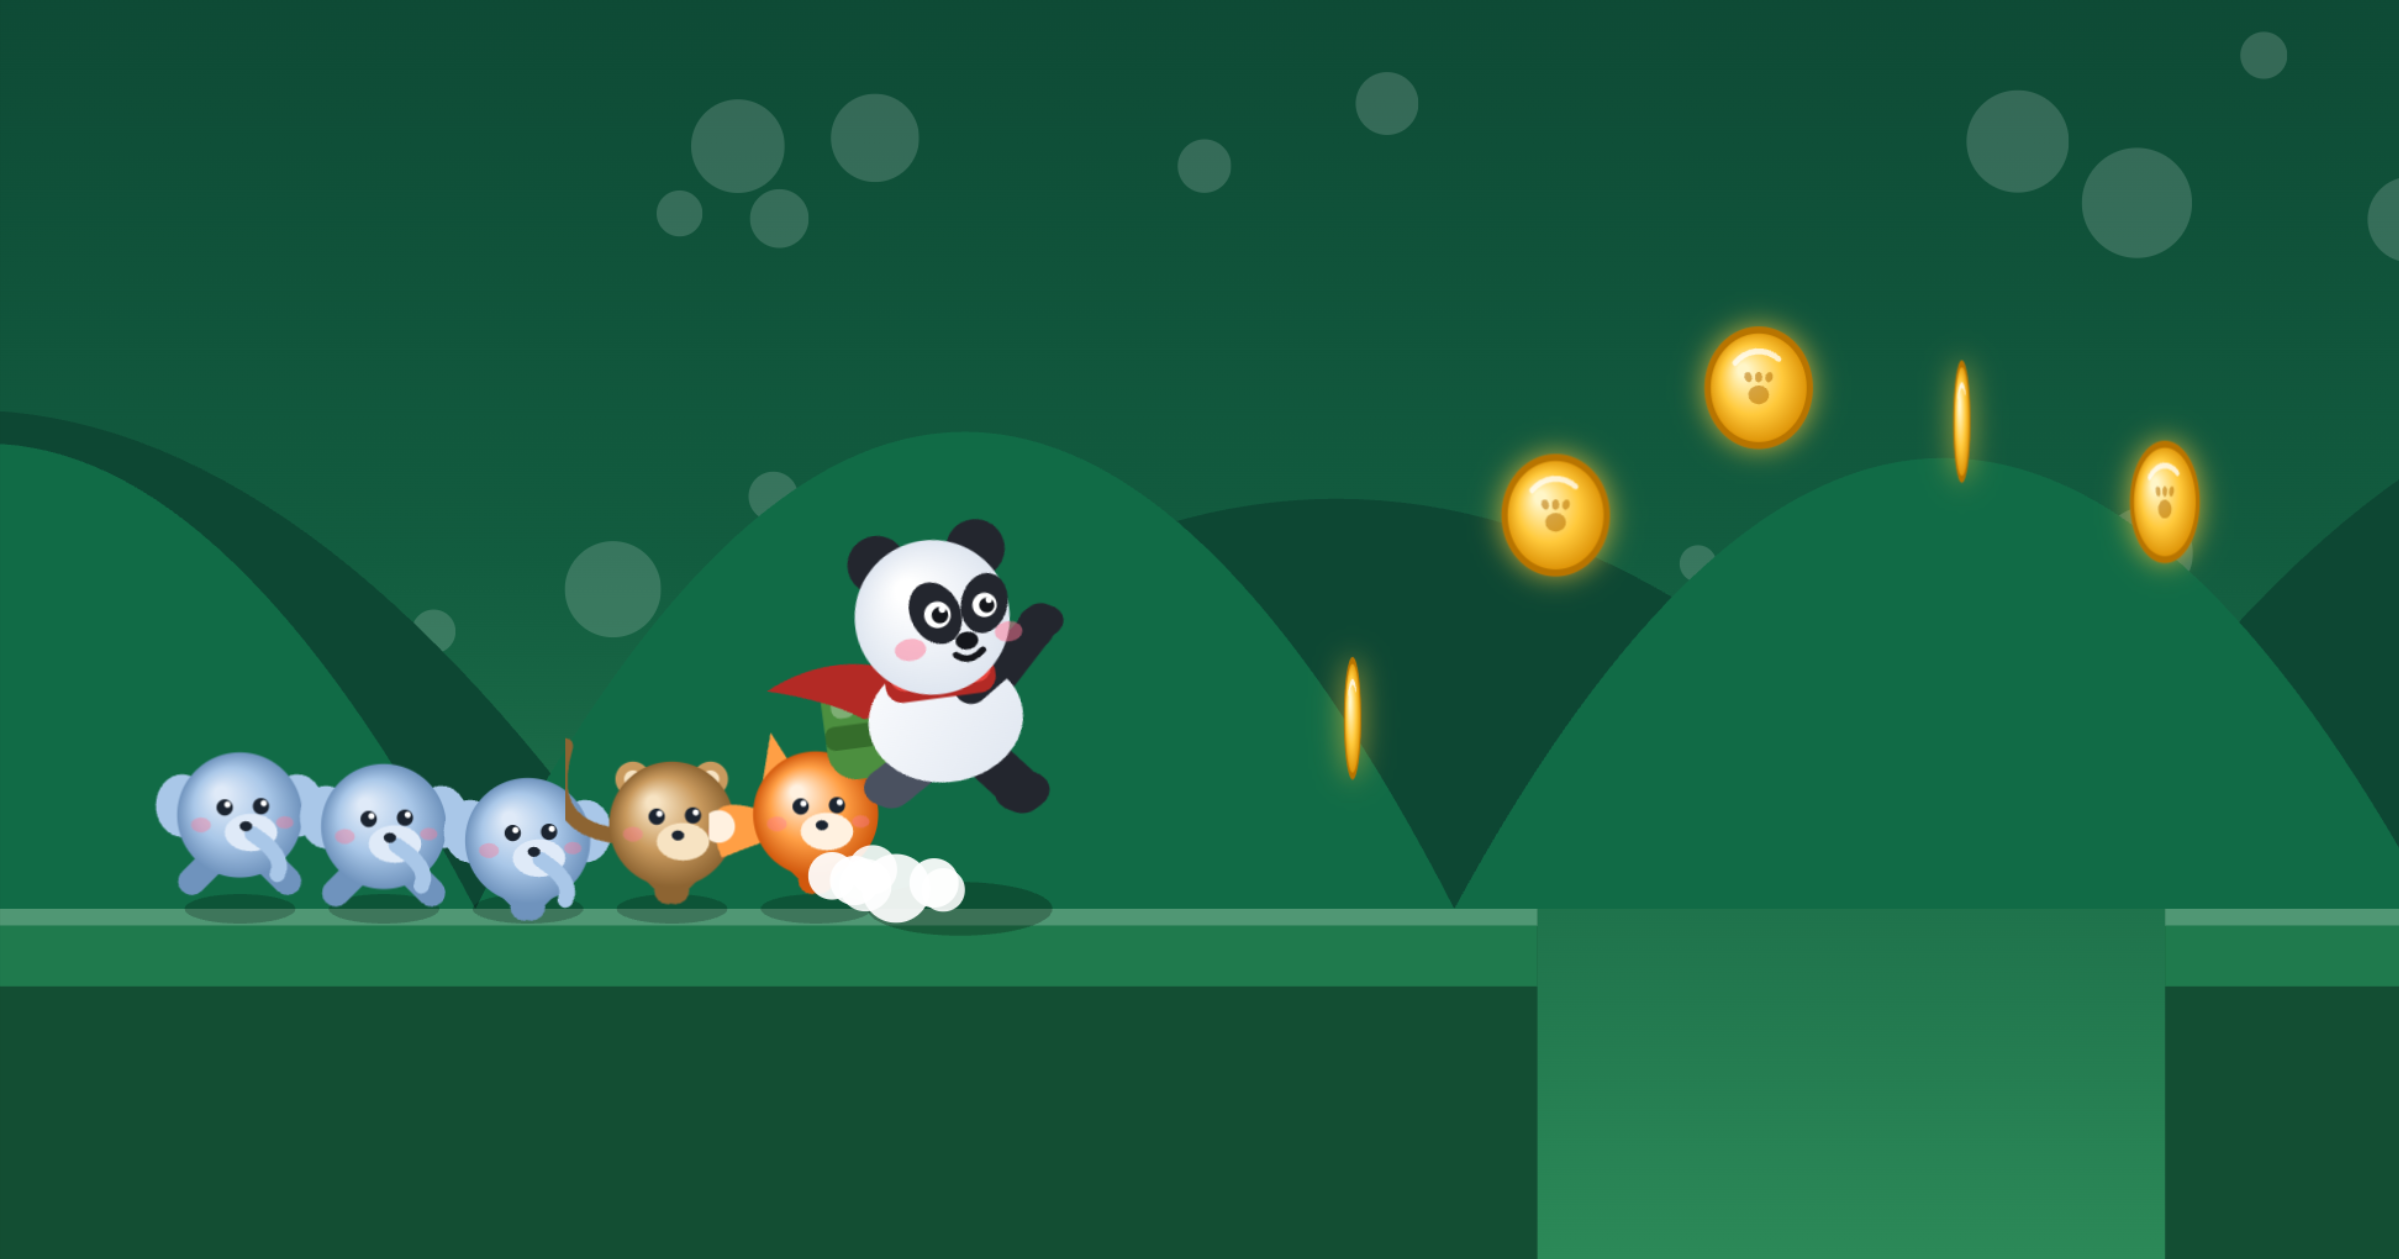
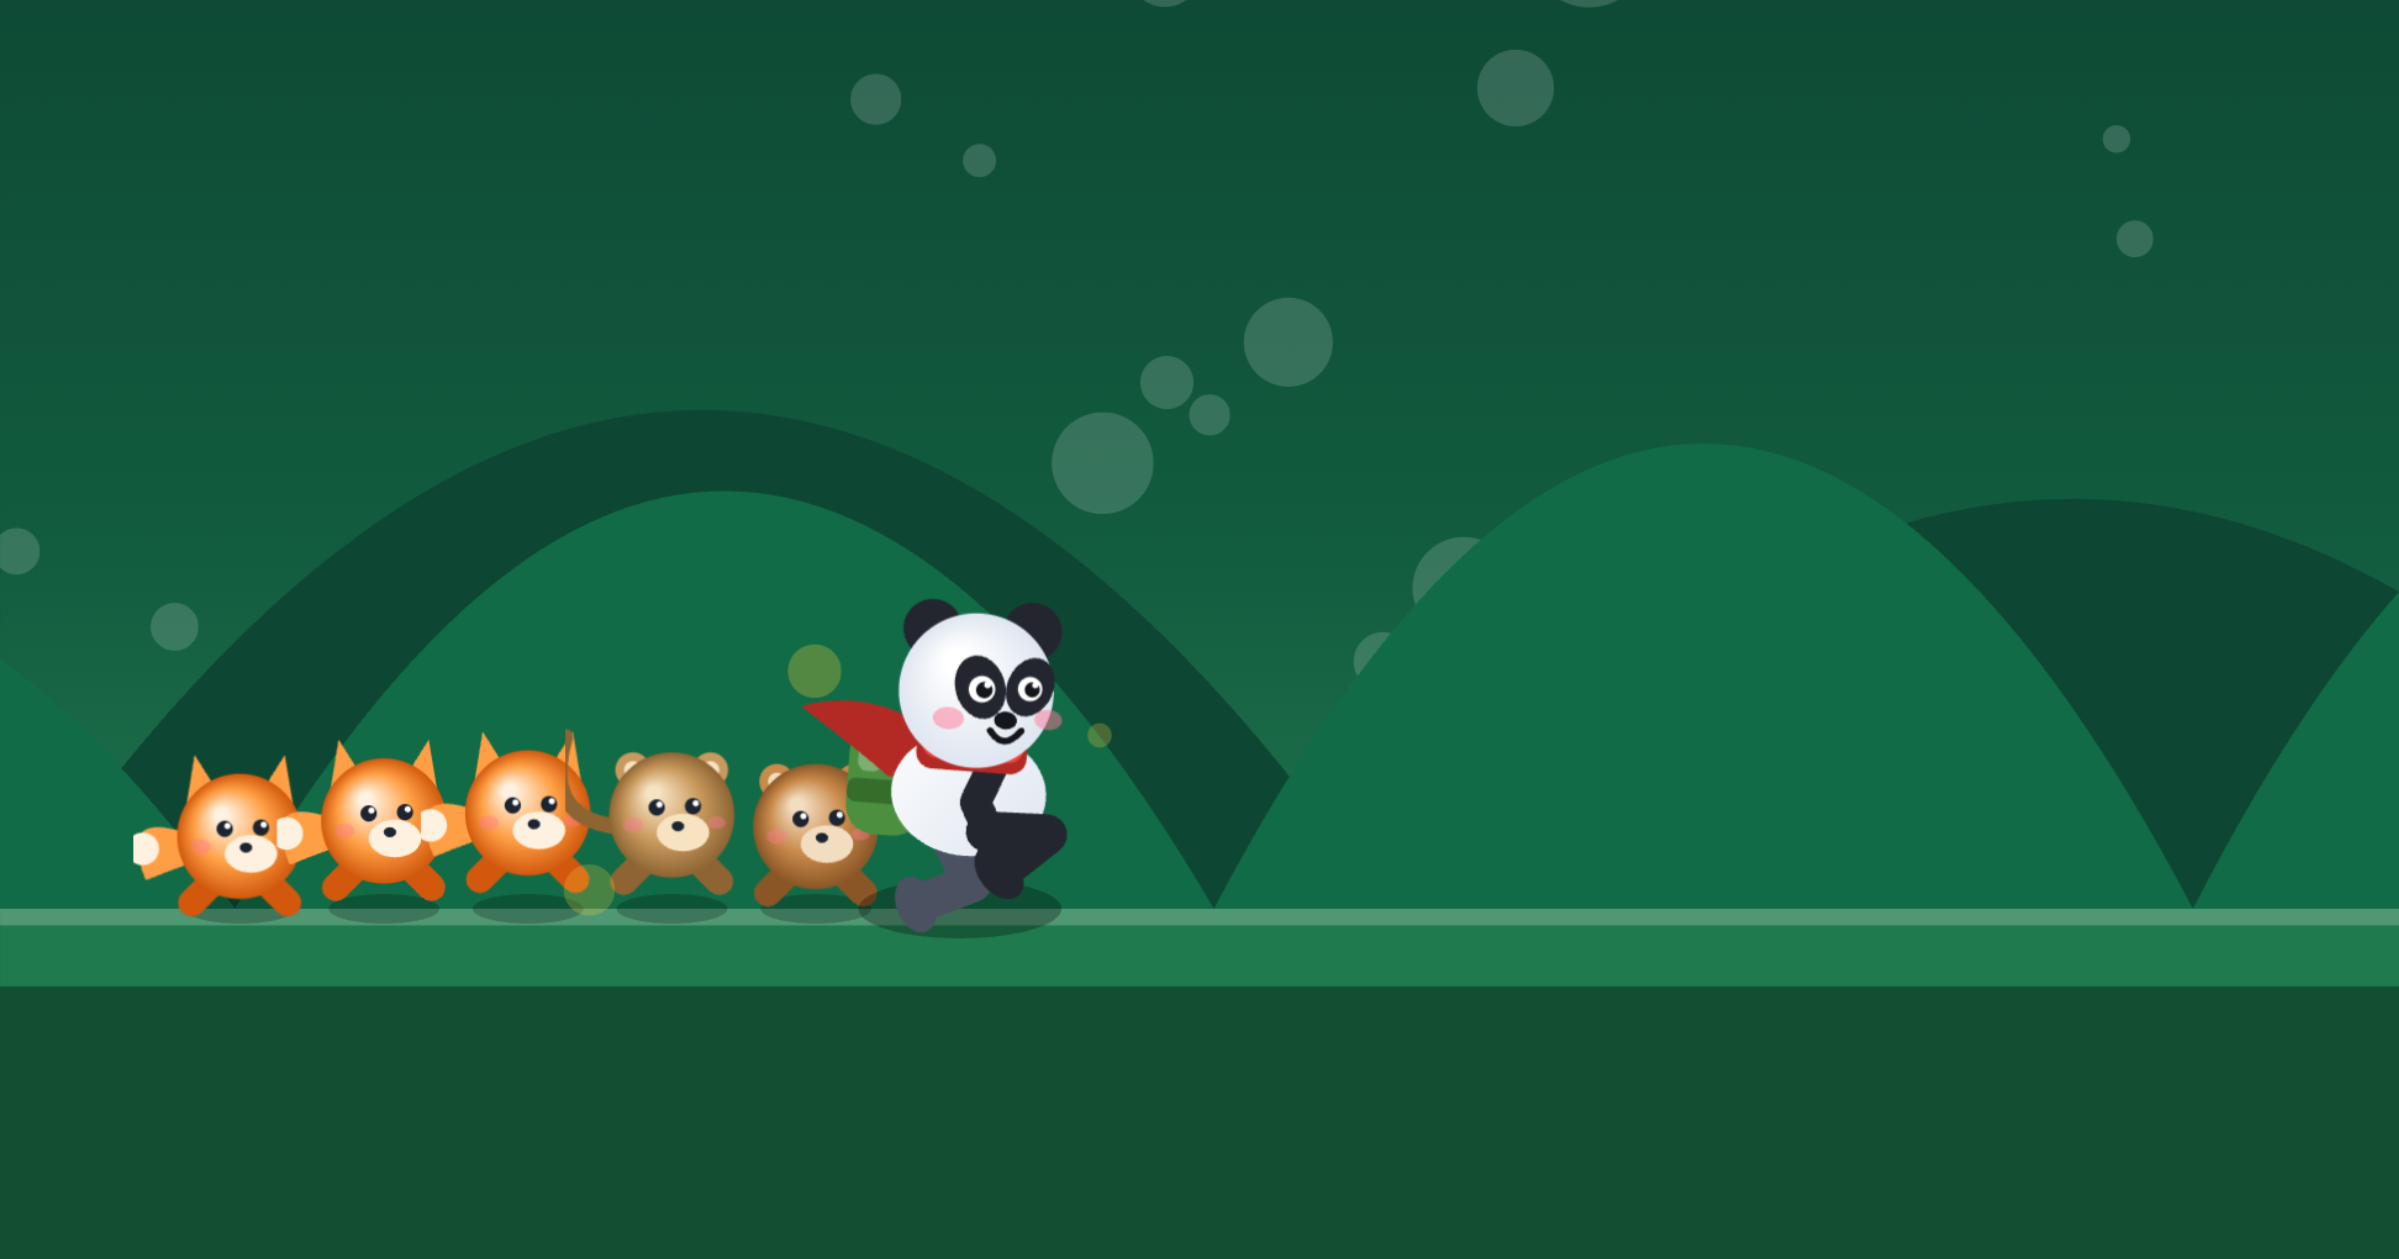
fix(panda-run): viết lại bộ chân, hết trượt chân nên hết dáng chạy ngược
Hai lần trước mình sửa pha tay chân, đều không ăn thua vì bắt sai bệnh.
Nguyên nhân thật là BÀN CHÂN TRƯỢT TRÊN MẶT ĐẤT. Đo ở tốc độ đầu game:

  một lần chống đất kéo dài   0,50 giây
  mặt đất trôi qua            3,49 u
  bàn chân chỉ lùi được       0,52 u
  → miết TỚI TRƯỚC 2,97 u mỗi bước = 85% quãng đường

Đó đúng là động tác moonwalk. Mắt đọc ra "chạy ngược" ngay, dù pha tay chân
có đúng đến mấy — nên sửa pha mãi không giải quyết được gì.

Gốc rễ: nhịp chân đặt bằng một con số bịa (tốc độ × 0,9), chẳng liên quan gì
tới quãng đường mặt đất trôi qua.

Viết lại:
• Nhịp chân suy ra từ tốc độ theo công thức, để quãng bàn chân lùi đúng bằng
  quãng mặt đất trôi. Đo lại: trượt 0% ở tốc độ đầu game, 32% ở tốc độ tối đa
  (lúc đó mọi thứ đã nhoè, mắt không bắt kịp nữa).
• Lúc chống đất bàn chân lùi ĐỀU theo đường thẳng. Hình sin thì hai đầu chậm
  giữa nhanh, nhìn cũng ra trượt.
• Chân có ĐẦU GỐI: hai đốt đùi–cẳng, biết chỗ hông và chỗ bàn chân thì giải
  ngược ra chỗ đặt gối. Chân một đốt thẳng đơ tố cáo ngay đây là hình vẽ tay.
• Chống đất chiếm 45% một vòng chứ không phải 50%, nhờ vậy có lúc cả hai chân
  cùng rời đất — đó mới là chạy; 50% trở lên là dáng đi bộ nhanh.
• Tám hình lên mười hai hình một vòng cho đỡ giật.
• Bàn chân xoay theo hướng cẳng chân, có gan bàn chân đặt xuống.

Tay cũng thành hai đốt có khuỷu, vẫn vung chéo với chân như bản trước.

diff --git a/panda-run/game.js b/panda-run/game.js
@@ -810,7 +810,12 @@
         const wasM = G.metres;
         G.metres = Math.floor(G.dist / METER);
         if (G.metres !== wasM) countMission('dist', 0, G.metres);
-        G.runCycle += dt * (G.onGround ? sp * 0.9 : 4);
+        /* Nhịp chân suy ra từ tốc độ chạy, để bàn chân đứng yên so với mặt đất
+         * lúc chống. Đặt bừa một con số ở đây là sinh ra trượt chân: bản trước
+         * để 0,9 nên bàn chân miết tới trước 85% quãng đường mỗi bước, nhìn ra
+         * đúng động tác moonwalk. */
+        const cadence = Math.min(CADENCE_MAX, TAU * sp * LEG_CONTACT / (2 * LEG_AMP));
+        G.runCycle += dt * (G.onGround ? cadence : 4);
 
         /* ---- lên xuống ---- */
         if (G.rocketT > 0) {
@@ -1244,8 +1249,22 @@
         cage: null, log: null, rock: null, spike: null
     };
 
-    const PANDA_FRAMES = 8;
+    /* Mười hai hình cho một vòng chạy thay vì tám: với nhịp chân đúng (xem
+     * LEG_AMP bên dưới) thì tám hình đổi quá thưa, mắt thấy giật. */
+    const PANDA_FRAMES = 12;
     const COIN_FRAMES = 6;
+
+    /* Biên độ trước–sau của bàn chân, và phần trăm vòng chạy mà một chân còn
+     * chống đất. Hai số này quyết định nhịp chân: bàn chân lùi được 2×LEG_AMP
+     * trong LEG_CONTACT của một vòng, nên muốn nó đứng yên so với mặt đất thì
+     *
+     *      số vòng mỗi giây = tốc độ × LEG_CONTACT / (2 × LEG_AMP)
+     *
+     * Để chống đất dưới nửa vòng (0,45) thì có những lúc cả hai chân đều rời
+     * đất — đó mới là CHẠY; đúng nửa vòng trở lên là dáng đi bộ nhanh. */
+    const LEG_AMP = 0.5;
+    const LEG_CONTACT = 0.45;
+    const CADENCE_MAX = 30;      // trần nhịp chân (rad/giây), khỏi loạn hình
 
     /* Vẽ sẵn một tấm. Trả về {c, w, h, ax, ay} — ax/ay là điểm neo (chỗ đặt
      * chân) tính trong toạ độ tấm ảnh, để lúc dán khỏi phải căn tay. */
@@ -1346,9 +1365,105 @@
         g.closePath();
         g.fill();
 
-        /* --- tay chân ---
-         * Vẽ bằng nét dày bo tròn rồi chấm thêm bàn chân ở đầu: chỉ có nét
-         * không thôi thì chân trông như que tăm cắm vào người. */
+        /* ====================================================================
+         *  CHÂN VÀ TAY — viết lại theo đúng một chu kỳ chạy
+         * --------------------------------------------------------------------
+         *  Bản trước sai ở chỗ không ai ngờ tới: pha tay chân đã đúng, nhưng
+         *  BÀN CHÂN TRƯỢT. Một lần chống đất kéo dài nửa giây, trong nửa giây
+         *  đó mặt đất trôi qua 3,5 u mà bàn chân chỉ lùi được 0,52 u so với
+         *  thân — tức là nó miết TỚI TRƯỚC gần hết quãng đường. Đó đúng là
+         *  động tác moonwalk, nên mắt đọc ra "chạy ngược" dù mọi con số pha
+         *  đều đúng.
+         *
+         *  Hai thứ phải sửa cùng lúc:
+         *    1. Lúc chống đất, bàn chân lùi ĐỀU (đường thẳng), không phải theo
+         *       hình sin. Sin thì hai đầu chậm giữa nhanh, nhìn cũng ra trượt.
+         *    2. Nhịp chân phải tính từ tốc độ chạy, sao cho quãng bàn chân lùi
+         *       đúng bằng quãng mặt đất trôi. Chỗ này làm ở stepPlayer.
+         *
+         *  Quỹ đạo bàn chân theo pha p (0 → 1 là một vòng của MỘT chân):
+         *    p ∈ [0 , 0.5]  CHỐNG ĐẤT — chân sát đất, lùi đều từ trước ra sau
+         *    p ∈ [0.5 , 1]  ĐƯA CHÂN — nhấc lên, gập gối, vòng ra trước
+         * ==================================================================*/
+        const LEG_A = LEG_AMP * u;         // biên độ trước–sau của bàn chân
+        const LEG_LIFT = 0.30 * u;         // nhấc cao nhất lúc đưa chân
+        const BONE = 0.33 * u;             // đùi và cẳng dài bằng nhau
+        const hipY = bodyCY + 0.20 * u;
+
+        function footAt(p) {
+            p = ((p % 1) + 1) % 1;
+            if (p < LEG_CONTACT) {
+                const t = p / LEG_CONTACT;
+                return { x: LEG_A * (1 - 2 * t), y: 0 };
+            }
+            const t = (p - LEG_CONTACT) / (1 - LEG_CONTACT);
+            /* Nhấc cao nhất ở giữa quãng đưa chân, và hơi lệch về nửa đầu —
+             * chân co lên nhanh rồi mới duỗi ra đón đất, chứ không phải một
+             * vòng cung cân đối. */
+            return {
+                x: LEG_A * (2 * t - 1),
+                y: LEG_LIFT * Math.sin(Math.PI * Math.pow(t, 0.78))
+            };
+        }
+
+        /* Chân hai đốt có đầu gối. Biết vị trí hông và bàn chân thì suy ngược
+         * ra chỗ đặt đầu gối — đây là bài toán giao hai đường tròn quen thuộc.
+         * Chân một đốt thẳng đơ là thứ tố cáo ngay đây là hình vẽ tay: chân
+         * thật lúc đưa về trước bao giờ cũng gập gối lại. */
+        function leg(hx, hy, fx, fy, col, w) {
+            const dx = fx - hx, dy = fy - hy;
+            const d = Math.min(Math.hypot(dx, dy), BONE * 2 - 0.001 * u);
+            const base = Math.atan2(dy, dx);
+            const cosT = (d * d) / (2 * d * BONE);
+            const t = Math.acos(Math.max(-1, Math.min(1, cosT)));
+            /* Trừ đi t: đầu gối lệch về phía trước mặt, đúng chiều gối gập. */
+            const ka = base - t;
+            const kx = hx + Math.cos(ka) * BONE;
+            const ky = hy + Math.sin(ka) * BONE;
+
+            g.strokeStyle = col;
+            g.lineWidth = w;
+            g.beginPath();
+            g.moveTo(hx, hy);
+            g.lineTo(kx, ky);
+            g.lineTo(fx, fy);
+            g.stroke();
+            /* Bàn chân nằm ngang, hơi chúi theo hướng cẳng chân. */
+            g.save();
+            g.translate(fx, fy);
+            g.rotate(Math.atan2(fy - ky, fx - kx) - Math.PI / 2);
+            g.fillStyle = col;
+            g.beginPath();
+            g.ellipse(0, 0, w * 0.75, w * 0.5, 0, 0, TAU);
+            g.fill();
+            g.restore();
+        }
+
+        /* Tay cũng hai đốt, xoay quanh vai, vung đều cả trước lẫn sau lưng.
+         * Biên độ để xấp xỉ biên độ chân thì mắt mới đọc ra được tay và chân
+         * đang ngược nhau — thứ mắt bắt là biên độ, không phải con số pha. */
+        function arm(sx0, sy0, p, col) {
+            const sw = Math.cos(p * TAU) * 1.05;
+            const upper = 0.22 * u, fore = 0.20 * u;
+            const ex = sx0 + Math.sin(sw * 0.7) * upper;
+            const ey = sy0 + Math.cos(sw * 0.7) * upper;
+            /* Cẳng tay gập thêm về trước — kiểu tay chạy, không phải tay đi bộ. */
+            const fa = sw * 0.7 + 0.85;
+            const hx = ex + Math.sin(fa) * fore;
+            const hy = ey + Math.cos(fa) * fore;
+            g.strokeStyle = col;
+            g.lineWidth = 0.17 * u;
+            g.beginPath();
+            g.moveTo(sx0, sy0);
+            g.lineTo(ex, ey);
+            g.lineTo(hx, hy);
+            g.stroke();
+            g.fillStyle = col;
+            g.beginPath();
+            g.ellipse(hx, hy, 0.115 * u, 0.09 * u, 0, 0, TAU);
+            g.fill();
+        }
+
         const limb = (x1, y1, x2, y2, w, col, paw) => {
             g.strokeStyle = col;
             g.lineWidth = w;
@@ -1364,58 +1479,22 @@
             }
         };
 
-        const hipY = bodyCY + 0.20 * u;
-
-        /* Cánh tay quay quanh khớp vai, vung ĐỀU HAI PHÍA trước và sau lưng.
-         *
-         * Bản trước tay chỉ nhúc nhích trong một khoảng hẹp và lúc nào cũng nằm
-         * phía trước bụng, nên dù pha đã đúng thì mắt vẫn không đọc ra được tay
-         * và chân đang ngược nhau — thứ mắt bắt được là biên độ, không phải con
-         * số pha. Biên độ tay giờ để xấp xỉ biên độ chân (±0,27 u) thì sự đối
-         * nghịch mới hiện ra. */
-        const arm = (sx0, sy0, phase, col) => {
-            const ang = Math.cos(phase) * 0.95;          // 0 là buông thẳng xuống
-            const len = 0.36 * u;
-            /* Khuỷu gập nhẹ về sau, cho cánh tay có đốt chứ không phải một que. */
-            const ex = sx0 + Math.sin(ang * 0.55) * len * 0.55;
-            const ey = sy0 + Math.cos(ang * 0.55) * len * 0.55;
-            const hx = ex + Math.sin(ang) * len * 0.55;
-            const hy = ey + Math.cos(ang) * len * 0.55;
-            g.strokeStyle = col;
-            g.lineWidth = 0.19 * u;
-            g.beginPath();
-            g.moveTo(sx0, sy0);
-            g.lineTo(ex, ey);
-            g.lineTo(hx, hy);
-            g.stroke();
-            g.fillStyle = col;
-            g.beginPath();
-            g.ellipse(hx, hy, 0.12 * u, 0.09 * u, 0, 0, TAU);
-            g.fill();
-        };
+        /* Pha của hai chân lệch nhau nửa vòng. Chân XA đi trước nửa nhịp. */
+        const pNear = k;
+        const pFar = k + 0.5;
 
         if (slide) {
             limb(cx - 0.10 * u, hipY - 0.06 * u, cx - 0.58 * u, foot - 0.05 * u, 0.24 * u, PANDA.limbFar, true);
-            limb(cx + 0.16 * u, hipY - 0.10 * u, cx + 0.50 * u, foot - 0.03 * u, 0.23 * u, PANDA.black, true);
         } else if (jump) {
             /* Nhảy thì co chân lại — duỗi thẳng nhìn như đang rơi chứ không bật. */
-            limb(cx - 0.14 * u, hipY, cx - 0.34 * u, foot - 0.26 * u, 0.24 * u, PANDA.limbFar, true);
-            limb(cx + 0.16 * u, hipY, cx + 0.36 * u, foot - 0.14 * u, 0.24 * u, PANDA.black, true);
-            limb(cx + 0.24 * u, bodyCY - 0.12 * u, cx + 0.58 * u, bodyCY - 0.46 * u, 0.20 * u, PANDA.black, true);
+            leg(cx - 0.11 * u, hipY, cx - 0.30 * u, foot - 0.34 * u, PANDA.limbFar, 0.21 * u);
+            arm(cx - 0.16 * u, bodyCY - 0.16 * u, 0.5, PANDA.limbFar);
         } else {
-            /* Chân sau lệch pha nửa vòng so với chân trước — đó là toàn bộ bí
-             * quyết để tám hình rời rạc nhìn ra một bước chạy.
-             *
-             * Bàn chân NHẤC LÊN đúng lúc nó đang đưa TỚI TRƯỚC, và CHẠM ĐẤT
-             * suốt quãng nó lùi về sau (lúc đó mặt đất đang đẩy người đi tới).
-             * Làm ngược lại — nhấc chân lúc lùi, đặt chân lúc đưa tới — thì
-             * thành đúng cái dáng chạy giật lùi, kiểu moonwalk. */
-            const bx = cx + Math.cos(a + Math.PI) * 0.26 * u;
-            const by = foot - Math.max(0, -Math.sin(a + Math.PI)) * 0.17 * u;
-            limb(cx - 0.10 * u, hipY, bx, by, 0.23 * u, PANDA.limbFar, true);
-            /* Tay XA đi cùng pha với chân GẦN — tức ngược pha với chân cùng bên
-             * nó (chân xa). Đó là kiểu vận động chéo: tay phải theo chân trái. */
-            arm(cx - 0.16 * u, bodyCY - 0.14 * u, a, PANDA.limbFar);
+            const f = footAt(pFar);
+            leg(cx - 0.11 * u, hipY, cx + f.x, foot - f.y, PANDA.limbFar, 0.21 * u);
+            /* Tay XA cùng pha với chân GẦN — tức ngược pha với chân cùng bên
+             * nó. Đó là vận động chéo: tay phải theo chân trái. */
+            arm(cx - 0.16 * u, bodyCY - 0.16 * u, pNear, PANDA.limbFar);
         }
 
         /* --- thân trắng --- */
@@ -1427,23 +1506,22 @@
         g.ellipse(cx, bodyCY, bodyRX, bodyRY, 0, 0, TAU);
         g.fill();
 
-        /* --- chân trước --- */
-        if (!slide && !jump) {
-            const fx = cx + Math.cos(a) * 0.26 * u;
-            const fy = foot - Math.max(0, -Math.sin(a)) * 0.17 * u;
-            limb(cx + 0.10 * u, hipY, fx, fy, 0.24 * u, PANDA.black, true);
-        } else if (slide) {
+        /* --- chân GẦN, vẽ đè lên thân --- */
+        if (slide) {
             limb(cx + 0.20 * u, hipY - 0.08 * u, cx + 0.62 * u, foot - 0.03 * u, 0.24 * u, PANDA.black, true);
+        } else if (jump) {
+            leg(cx + 0.11 * u, hipY, cx + 0.34 * u, foot - 0.18 * u, PANDA.black, 0.22 * u);
+        } else {
+            const f = footAt(pNear);
+            leg(cx + 0.11 * u, hipY, cx + f.x, foot - f.y, PANDA.black, 0.22 * u);
         }
 
-        /* --- tay GẦN: vẽ đè lên thân trắng ---
-         * Ngược pha với chân gần (chân cùng bên nó) — tay phải theo chân trái.
-         * Thiếu cánh tay thì con panda thành cái bình có chân. */
+        /* --- tay GẦN --- */
         if (jump) {
             limb(cx + 0.16 * u, bodyCY - 0.16 * u, cx + 0.52 * u, bodyCY - 0.40 * u,
                 0.19 * u, PANDA.black, true);
         } else if (!slide) {
-            arm(cx + 0.12 * u, bodyCY - 0.16 * u, a + Math.PI, PANDA.black);
+            arm(cx + 0.12 * u, bodyCY - 0.16 * u, pFar, PANDA.black);
         } else {
             limb(cx + 0.22 * u, bodyCY - 0.10 * u, cx + 0.68 * u, bodyCY + 0.06 * u,
                 0.19 * u, PANDA.black, true);
